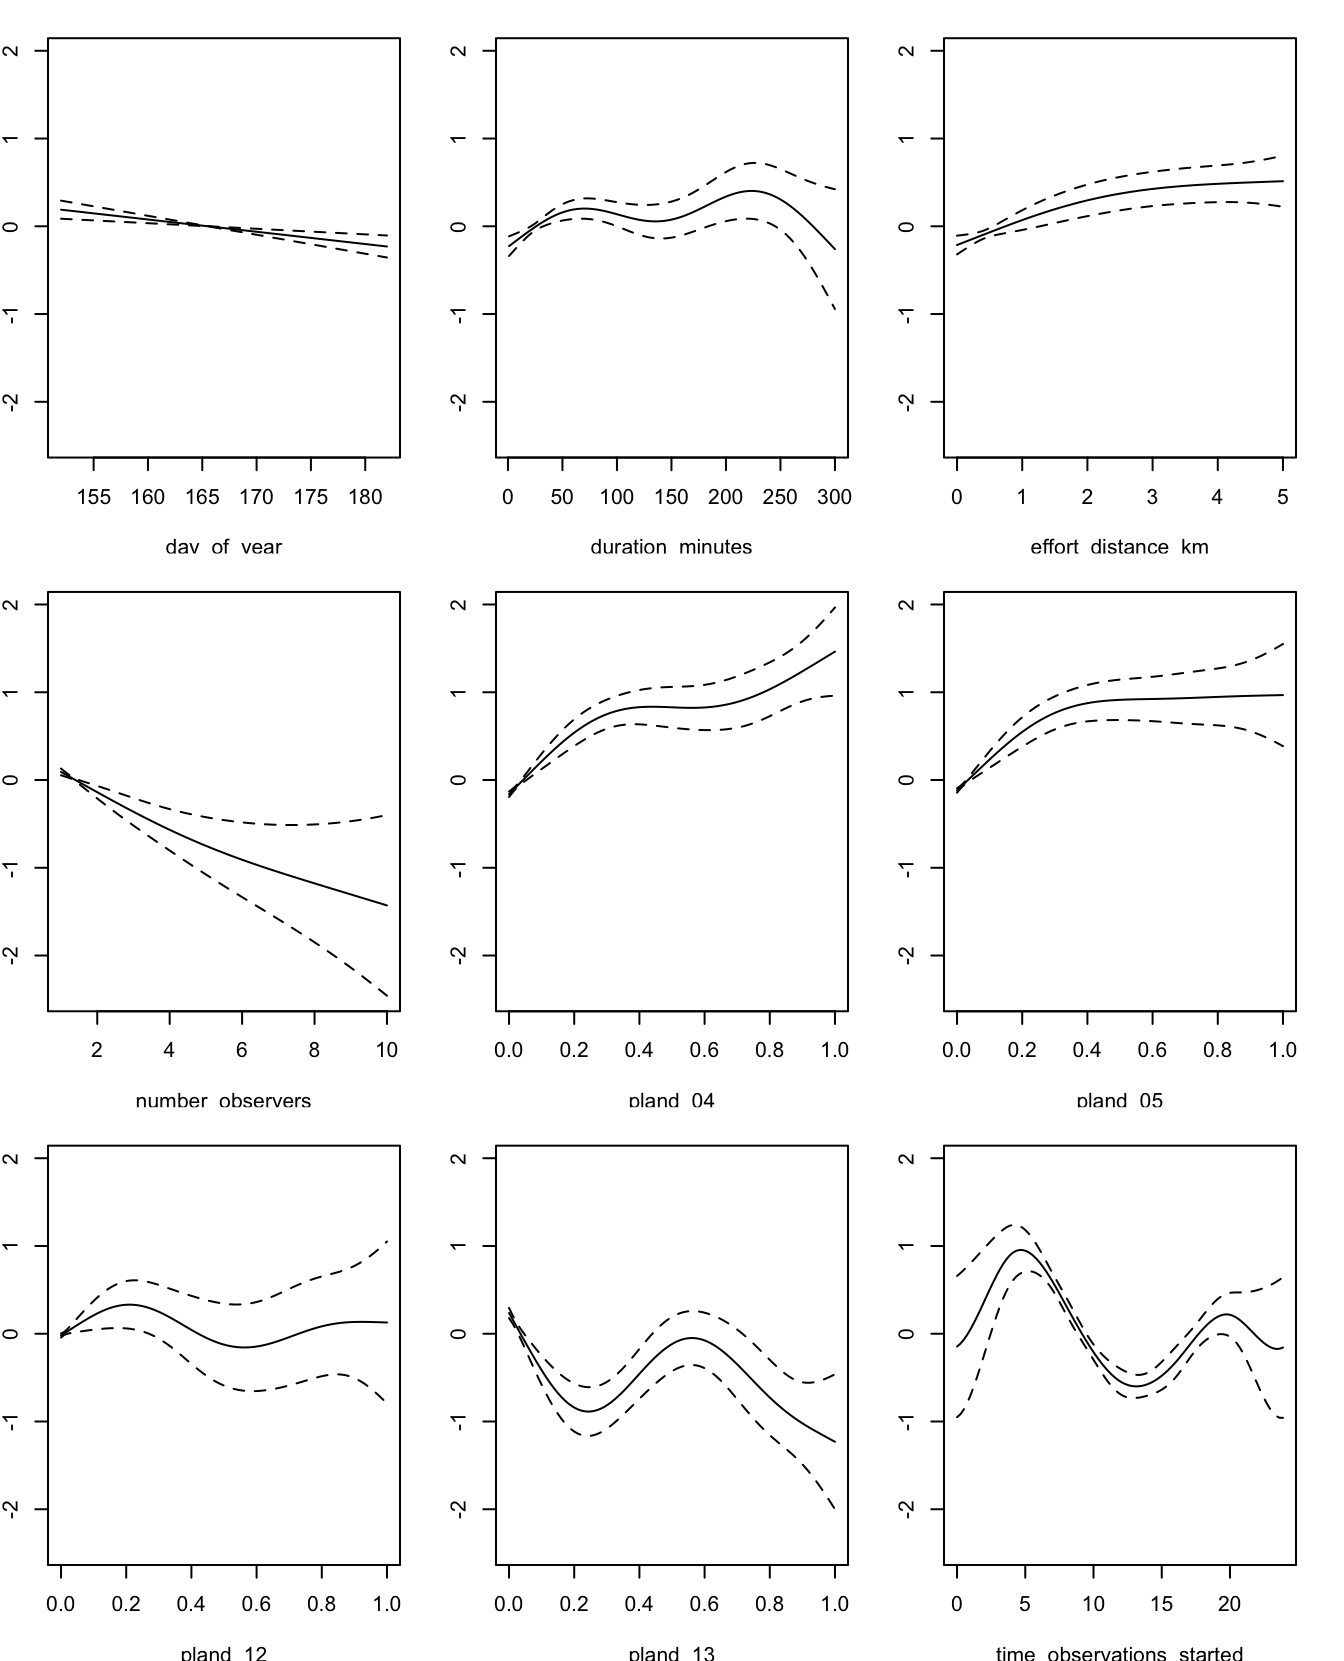
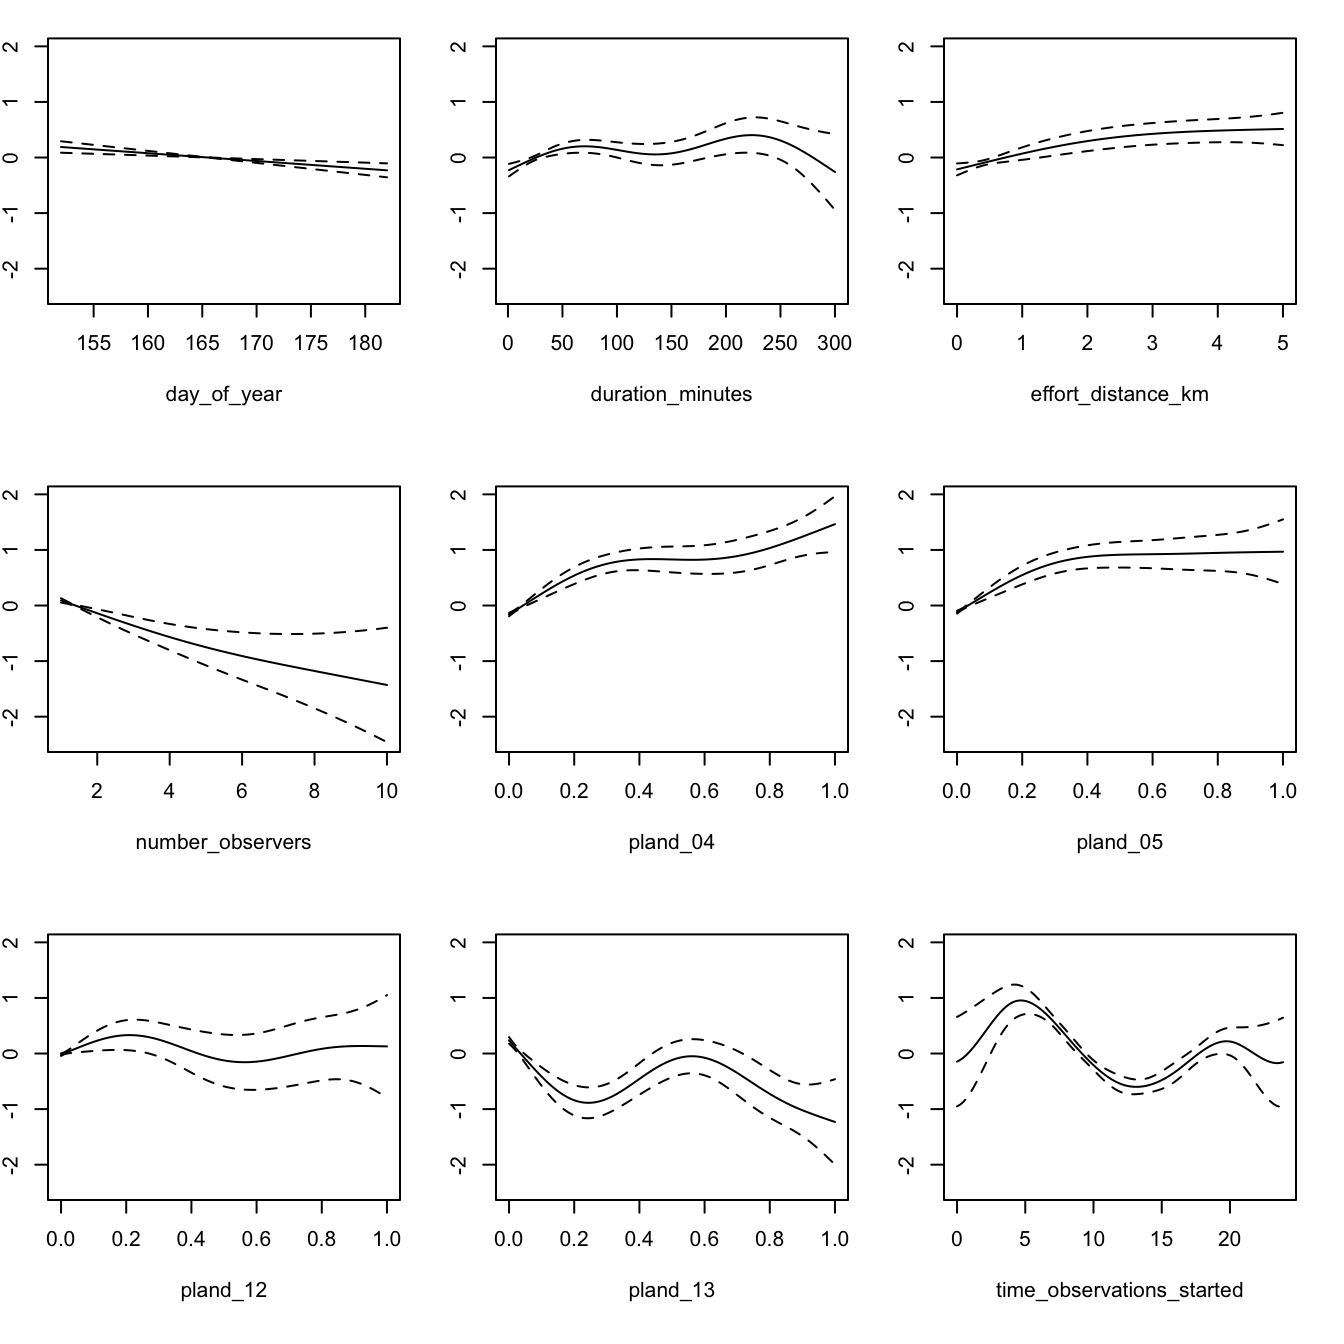
abundance covariate plots fixed

diff --git a/docs/abundance.html b/docs/abundance.html
@@ -598,7 +598,7 @@ Exercise
 <h3><span class="header-section-number">13.4.1</span> Assessing covariate effects</h3>
 <p>We recommend also assessing the fitted covariate effects to see whether they show biologically plausible relationships between covariates and species counts. Splines can sometimes overfit, notably when sample sizes are very large, and in this cases it is appropriate to reduce the degrees of freedom.</p>
 <p>Calling the <code>plot()</code> function on the GAM object produces plots of the smooth functions for each of the separate predictors, which gives us a sense of the effect of each predictor on the count response.</p>
-<div class="sourceCode" id="cb118"><pre class="sourceCode r"><code class="sourceCode r"><a class="sourceLine" id="cb118-1" data-line-number="1"><span class="kw">par</span>(<span class="dt">mai =</span> <span class="kw">c</span>(<span class="fl">0.5</span>, <span class="fl">0.25</span>, <span class="fl">0.2</span>, <span class="fl">0.25</span>))</a>
+<div class="sourceCode" id="cb118"><pre class="sourceCode r"><code class="sourceCode r"><a class="sourceLine" id="cb118-1" data-line-number="1"><span class="kw">par</span>(<span class="dt">mai =</span> <span class="kw">c</span>(<span class="fl">0.75</span>, <span class="fl">0.25</span>, <span class="fl">0.2</span>, <span class="fl">0.25</span>))</a>
 <a class="sourceLine" id="cb118-2" data-line-number="2"><span class="kw">plot</span>(pred_model, <span class="dt">pages =</span> <span class="dv">1</span>, <span class="dt">ylab =</span> <span class="st">&quot;&quot;</span>)</a></code></pre></div>
 <p><img src="ebp-workshop_files/figure-html/abundance-model-cov-plot-1.png" width="\textwidth" style="display: block; margin: auto;" /></p>
 <p>If these relationships seem too wiggly to be biologically realistic, you should reduce the degrees of freedom for the smooth until a biologically feasible relationship is achieved. In this case, the relationships appear to be reasonable for the negative binomial model, so we will use it for prediction below.</p>
